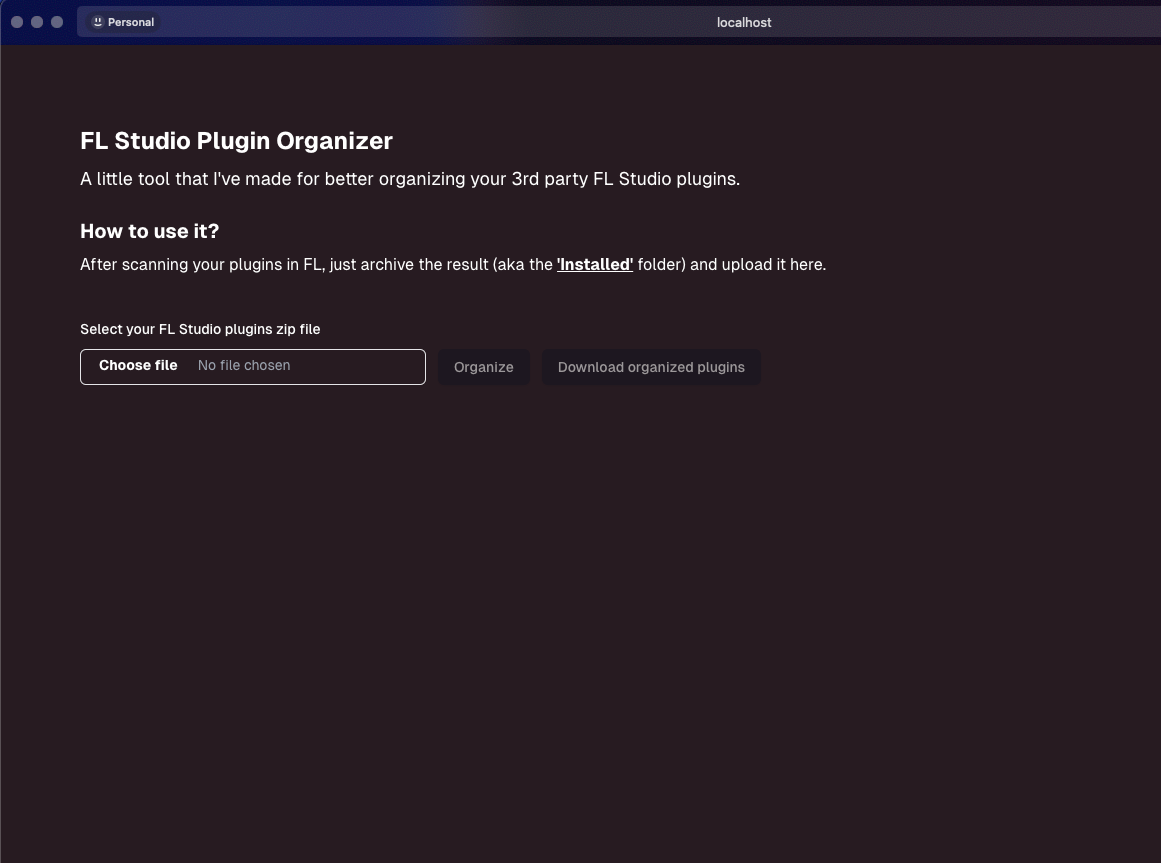
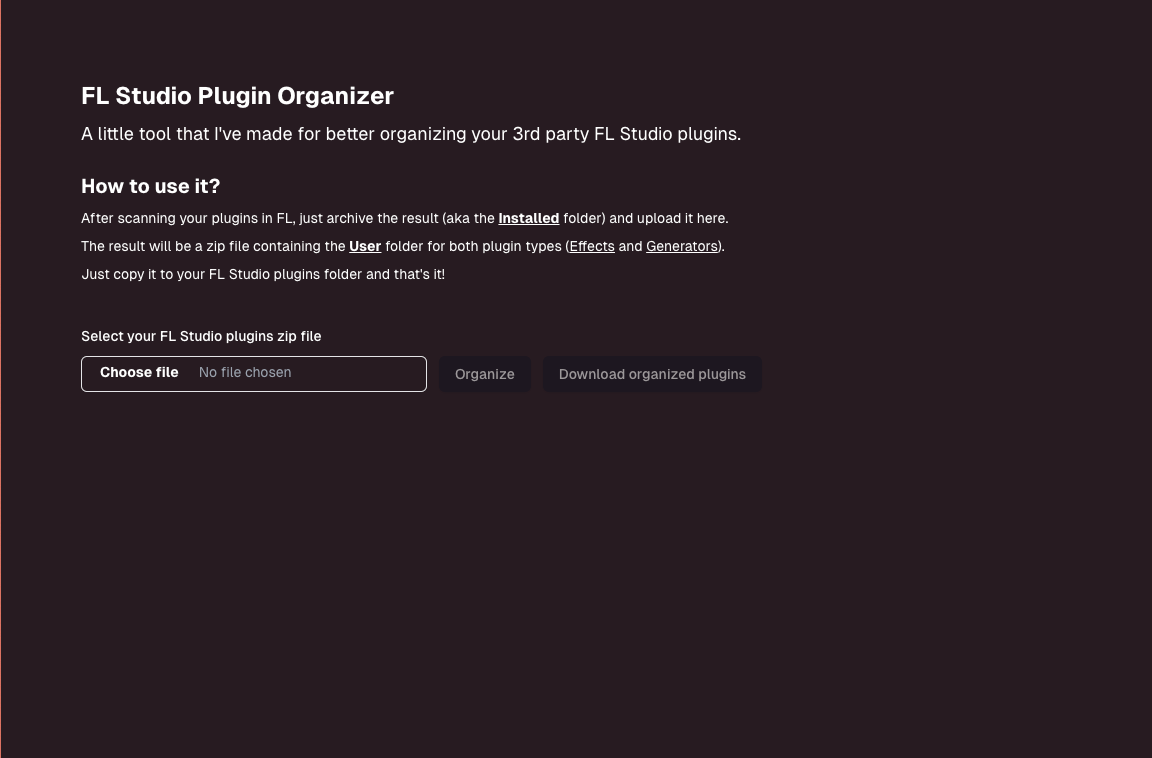
Update README

diff --git a/README.md b/README.md
@@ -6,6 +6,11 @@ This is a little tool that I've made for better organizing your 3rd party FL Stu
 
 In order to use this tool, you need to have [Docker](https://docs.docker.com/engine/install/) installed on your machine.
 
+### In FL Studio   
+Scan your plugins and make sure to enable all the scanning options, so that you'll make all the plugins available for organization.
+
+![alt text](image-1.png)
+
 ## Usage
 
 From the root of this repository, run the following command:
@@ -18,11 +23,21 @@ This will build everything that you need and start the tool.
 
 After everything is started, you can access the tool at [http://localhost:3000](http://localhost:3000).
 
-You should the following screen:
+You should see the following screen:
 
 ![alt text](image.png)
 
 Just follow the instructions and you're done!
+
+## The result
+
+The result will be a zip file containing the **User** folder for both plugin types (**Effects** and **Generators**).
+
+![alt text](image-2.png)
+
+Just replace the **User** folder from your FL Studio plugins folder and that's it, you should see your new structure in FL!
+
+![alt text](image-3.png)
 
 ## Other mentions
 
